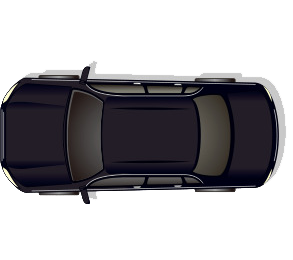
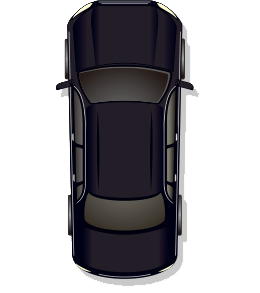
progress made

diff --git a/Game.js b/Game.js
@@ -8,15 +8,18 @@ function Game(canvas) {
   this.canvas = canvas;
   this.ctx = this.canvas.getContext("2d");
   this.onGameOver = null;
-  this.time = 100;
+  this.timeLeft = 20;
   this.isCollide=false;
   this.cabyFull=false;
+  this.clients.client = " ";
+  this.bank = 0;
 }
 
 Game.prototype.startGame = function() {
   //inicializar caby y clients
   this.caby = new Caby(this.canvas);
-
+  this.timer();
+  // this.bank();
   //se crean los CLIENTS con posiciones fijadas
   for (var i = 0; i < 6; i++) {
     // debugger;
@@ -49,19 +52,20 @@ Game.prototype.startGame = function() {
   for (var i = 0; i < 6; i++) {
     // debugger;
     if (i === 0) {
-      this.buildings.push(new Building(this.canvas, 60, 60, "Club"));
+      this.buildings.push(new Building(this.canvas, 670, 110, "Club", 70, 70));
     } else if (i === 1) {
-      this.buildings.push(new Building(this.canvas, 80, 300, "Restaurant"));
+      this.buildings.push(new Building(this.canvas, 240, 270, "Restaurant", 80, 30));
     } else if (i === 2) {
-      this.buildings.push(new Building(this.canvas, 40, 270, "Beach"));
+      this.buildings.push(new Building(this.canvas, 680, 310, "Beach", 60, 140));
     } else if (i === 3) {
-      this.buildings.push(new Building(this.canvas, 400, 40, "Supermarket"));
+      this.buildings.push(new Building(this.canvas, 80, 470, "Supermarket", 90, 40));
     } else if (i === 4) {
-      this.buildings.push(new Building(this.canvas, 500, 210, "Hospital"));
+      this.buildings.push(new Building(this.canvas, 0, 160, "Hospital", 70, 70));
     } else if (i === 5) {
-      this.buildings.push(new Building(this.canvas, 540, 230, "Park"));
+      this.buildings.push(new Building(this.canvas, 380, 180, "Park", 100, 50));
     }
   }
+
 
   var loop = () => {
     this.update();
@@ -78,6 +82,42 @@ Game.prototype.startGame = function() {
   };
   loop();
 };
+
+Game.prototype.timer = function() {
+    var downloadTimer = setInterval(() => {
+        this.timeLeft = this.timeLeft-1;
+        if(this.timeLeft <= 0) {
+            clearInterval(downloadTimer);
+            this.isGameOver = true;
+        }
+      var timerElement = document.querySelector("#timer");
+      function buildTimer(html) {
+      timerElement.innerHTML = html;
+      return timerElement;
+      };
+      var showTimer = () => {
+          var timerWindow = buildTimer(` 
+              <p>Time left: ${this.timeLeft}!</p>
+              `);
+          };
+          showTimer();
+      }, 1000);
+    
+};
+
+// Game.prototype.bank = function() {
+//     var bankElement = document.querySelector("#bank");
+//     function buildBank(html) {
+//     bankElement.innerHTML = html;
+//     return bankElement;
+//     };
+//     var showBank = () => {
+//         var bankWindow = buildBank(` 
+//             <p>$${this.bank}</p>
+//             `);
+//           };
+//           showBank();
+// };
 
 Game.prototype.update = function() {
   this.caby.move();
@@ -107,10 +147,34 @@ Game.prototype.checkCollisionsClients = function() {
     if (rightLeft && leftRight && botttomTop && topBottom && !this.cabyFull) {
       this.clients.splice(index, 1);
       this.cabyFull={isFull: true, client: client.destiny};
-      // AQUI METER LO DE HACER EL DOM MANIPULATION PARA INCLUIR EL DESTINO
-    }
-  });
+      // muestre destino
+      var destinyElement = document.querySelector("#destiny");
+        function buildDestiny(html) {
+        destinyElement.innerHTML = html;
+        return destinyElement;
+        };
+        var showDestiny = () => {
+            var destinyWindow = buildDestiny(` 
+                <p>Take me to ${this.cabyFull.client}!</p>
+                `);
+            };
+            showDestiny();
+        }else if(!this.cabyFull){
+        var destinyElement = document.querySelector("#destiny");
+        function buildDestiny(html) {
+        destinyElement.innerHTML = html;
+        return destinyElement;
+        };
+        var showDestiny = () => {
+            var destinyWindow = buildDestiny(` 
+                <p>Find a customer!!!</p>
+                `);
+            };
+            showDestiny();
+        };
+    });
 };
+
 
 Game.prototype.checkCollisionsBuildings = function() {
   this.buildings.forEach((building, index) => {
@@ -123,7 +187,8 @@ Game.prototype.checkCollisionsBuildings = function() {
     if (this.cabyFull) {
         if(this.buildings[index].name === this.cabyFull.client) {
             this.cabyFull = null;
-            this.time += 10;
+            this.timeLeft += 2;
+            this.bank +=5;
         }
     }
       this.caby.directionX = 0;

diff --git a/main.js b/main.js
@@ -9,8 +9,7 @@ function main() {
 
   function createSplashScreen() {
     var splashScreen = buildDom(` 
-        <section>
-            <h1>Crazy Caby</h1>
+        <section class = "splashScreen" style="width:800px;height:600px;border:0;">
             <button>Start</button>
         </section>
         `);
@@ -20,17 +19,17 @@ function main() {
   function createGameScreen() {
     var gameScreen = buildDom(`
         <section>
-            <canvas width="800" height="600")></canvas>
+            <canvas width="800" height="600"></canvas>
         </section>
         <section id = "container">
-            <article id="chat">
-                <p class = "destiny">"Take me to the !"</p>
+            <article class = "chat">
+                <div id= "destiny"></div>
             </article>
-            <article id="bank">
-                <p>Money: </p>
+            <article class="bank">
+                <div id = "bank"></div>
             </article>
-            <article id="time">
-                <p>Time: </p>
+            <article class="time">
+                <div id = "timer"></div>
             </article>
         </section>
         `);
@@ -41,8 +40,9 @@ function main() {
     gameInstance.startGame();
     document.addEventListener("keydown", event => {
       if (event.key === "ArrowDown") {
-          gameInstance.caby.width = 20;
-          gameInstance.caby.height = 40;
+          gameInstance.caby.width = 40;
+          gameInstance.caby.height = 45;
+          gameInstance.caby.imageSRC = './cabyDOWN.png'
  
         if (gameInstance.isCollide) {
           gameInstance.caby.setDirectionY(-1);
@@ -52,8 +52,10 @@ function main() {
           gameInstance.caby.setDirectionX(0);
         }
       } else if (event.key === "ArrowUp") {
-        gameInstance.caby.width = 20;
-        gameInstance.caby.height = 40;
+        gameInstance.caby.width = 40;
+        gameInstance.caby.height = 45;
+        console.log(event.key);
+        gameInstance.caby.imageSRC = './cabyUP.png'
         if (gameInstance.isCollide) {
           gameInstance.caby.setDirectionY(1);
           gameInstance.isCollide = false;
@@ -62,8 +64,9 @@ function main() {
           gameInstance.caby.setDirectionX(0);
         }
       } else if (event.key === "ArrowRight") {
-        gameInstance.caby.width = 40;
-        gameInstance.caby.height = 20;
+        gameInstance.caby.width = 45;
+        gameInstance.caby.height = 40;
+        gameInstance.caby.imageSRC = './cabyRIGHT.png'
         if (gameInstance.isCollide) {
           gameInstance.caby.setDirectionX(-1);
           gameInstance.isCollide = false;
@@ -72,8 +75,9 @@ function main() {
           gameInstance.caby.setDirectionX(1);
         }
       } else if (event.key === "ArrowLeft") {
-        gameInstance.caby.width = 40;
-        gameInstance.caby.height = 20;
+        gameInstance.caby.width = 45;
+        gameInstance.caby.height = 40;
+        gameInstance.caby.imageSRC = './cabyLEFT.png'
         if (gameInstance.isCollide) {
           gameInstance.caby.setDirectionX(1);
           gameInstance.isCollide = false;

diff --git a/style.css b/style.css
@@ -91,23 +91,47 @@ html {
     background-image: url("./city_street_maps_dribbble.jpg");
   }
 
-  #chat {
+  .chat {
     height: 30px;
     width: 400px;
     border: 1px solid black;
+    text-align: center;
+    background-color: yellow;
+    color: black;
+    font-family: Impact, Haettenschweiler, 'Arial Narrow Bold', sans-serif;
+    letter-spacing: 3px;
+    vertical-align: middle;
   }
 
-  #bank {
+  .bank {
     height: 30px;
     width: 200px;
     border: 1px solid black;
+    text-align: center;
+    background-color: yellow;
+    color: black;
+    font-family: Impact, Haettenschweiler, 'Arial Narrow Bold', sans-serif;
+    letter-spacing: 3px;
+    vertical-align: middle;
   }
-  #time {
+  .time {
     height: 30px;
     width: 200px;
     border: 1px solid black;
+    text-align: center;
+    background-color: yellow;
+    color: black;
+    font-family: Impact, Haettenschweiler, 'Arial Narrow Bold', sans-serif;
+    letter-spacing: 3px;
+    vertical-align: middle; 
   }
-  /* ---- section ---- */
+
+  .splashScreen {
+    background-image: url("./splashScreenBG.png");
+    background-size: 800px 600px;
+
+  }
+  /* ---- section ----*/
   
   section.testimonials {
     // ...

diff --git a/Caby.js b/Caby.js
@@ -3,14 +3,14 @@
 function Caby(canvas) {
   this.canvas = canvas;
   this.ctx = canvas.getContext('2d');
-  this.height = 20;
-  this.width = 40;
+  this.height = 40;
+  this.width = 45;
   this.x = 200;
   this.y = 300;
   this.velocity = 4;
   this.directionX = null;
   this.directionY = null;
-  this.color = 'blue';
+  this.imageSRC = './cabyRIGHT.png';
 }
 
 Caby.prototype.checkScreen = function() {
@@ -46,10 +46,11 @@ Caby.prototype.move = function() {
 };
 
 Caby.prototype.draw = function() {
-  this.ctx.fillStyle = this.color;
+  this.ctx.globalAlpha = 0;
   this.ctx.fillRect(this.x, this.y, this.width, this.height);
+  this.ctx.globalAlpha = 1.0;
   this.image = new Image();
-  this.image.src = '';
+  this.image.src = this.imageSRC;
   this.ctx.drawImage(this.image,this.x,this.y, this.width, this.height);
 };
 

diff --git a/Buildings.js b/Buildings.js
@@ -1,17 +1,18 @@
 'use strict';
 
-function Building(canvas,positionX, positionY, buildingName) {
+function Building(canvas,positionX, positionY, buildingName, width, height) {
     this.canvas = canvas;
     this.ctx = this.canvas.getContext('2d');
     this.x = positionX;
     this.y = positionY;
     this.color = 'green';
-    this.width = 70;
-    this.height = 30;
+    this.width = width;
+    this.height = height;
     this.name = buildingName;
 };
 
 Building.prototype.draw = function() {
+    this.ctx.globalAlpha = 0.9;
     this.ctx.fillStyle = this.color;
     this.ctx.fillRect(this.x, this.y, this.width, this.height);
     this.ctx.textAlign = 'center';
